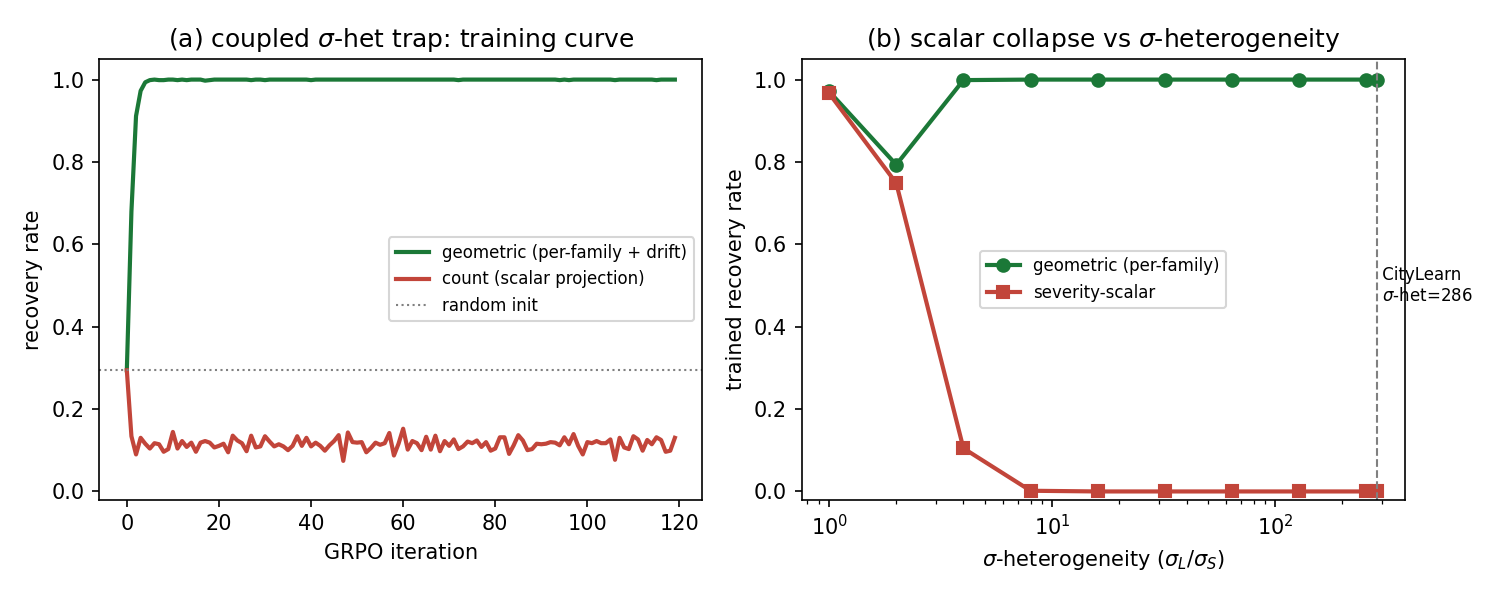
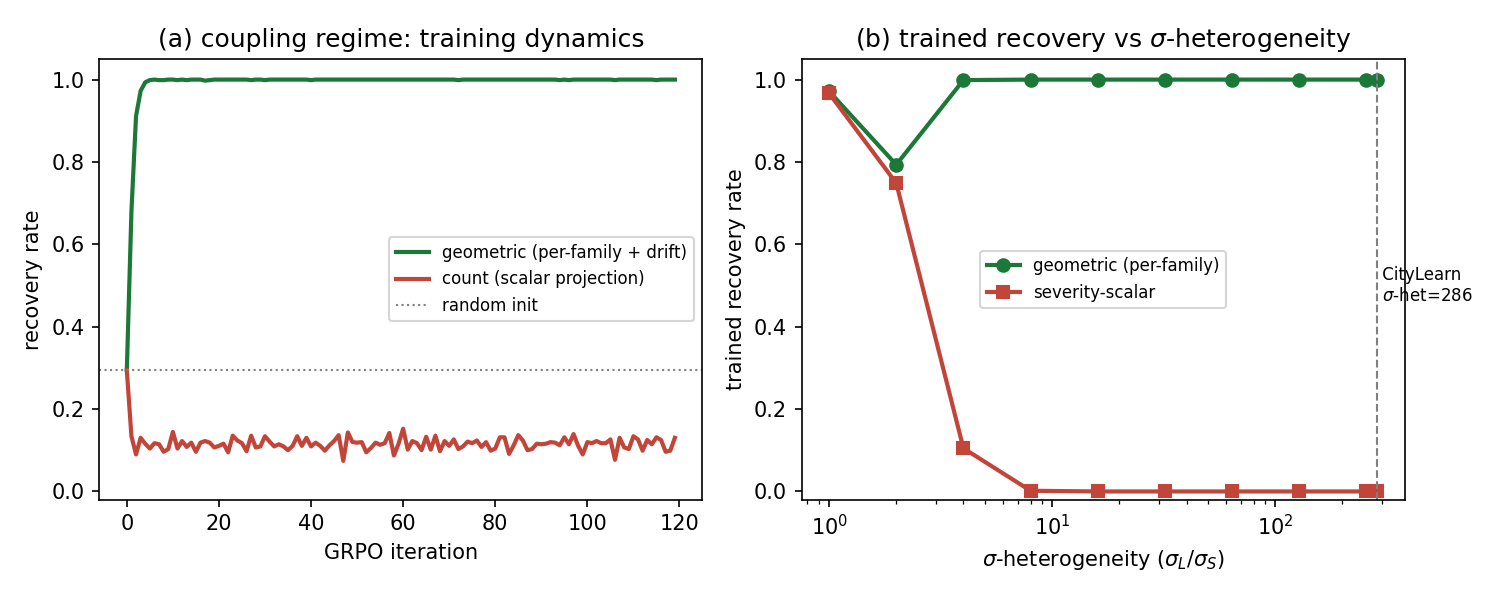
paper(pillar-2): Mode-D pre-submission revision — 9-review synthesis applied
Defensive-writing panel (6 agents x2 rounds + self-review, all NEEDS_REVISION)
consensus applied:
SELF-DAMAGE (unanimous): deleted the two pre-emptive hedges in S6 ('we do not read
  it as significant' / 'partially self-referential'), the entire Scope paragraph,
  the seed-power self-report in the fingerprints paragraph, and the '+not bounded
  by projections' knife-handing in Limitations; single-adapter note moved to
  Limitations as a parenthetical.
NAMING (unanimous): D/E/D-flat -> Geometric/Count/Verdict-only across text+tables;
  iter_2 -> 'checkpoint after the second GRPO iteration, selected in advance';
  progress_mag (S6) -> 'structured rollout gate'; multi-type -> multi-family.
PRECISION (codex catch, verified): Prop collapse claim narrowed to identical
  IMMEDIATE reward / step-level separation (trajectory returns can still separate);
  rho -> Pearson r; 'every scalarization' -> 'every tested scalar projection'.
COHERENCE: S6 retitled 'Internalizing the Geometry...'; Prop 1 forward-references
  Prop 3 (dual impossibility, admission+training); S5 closes with a transition;
  intro/conclusion name the advantage-collapse counterpart; new Discussion paragraph
  'From gate to training signal' ties S6 back to the admission story; failure-class
  term defined; held-out E framed as failing the mechanism check; long paragraphs
  split; figure titles aligned with body terminology ('coupling regime').
[…]

Changed region(s): [[0.552, 0.03, 0.92, 0.09], [0.092, 0.03, 0.4293, 0.09]]

diff --git a/paper/sections/06_process_reward.tex b/paper/sections/06_process_reward.tex
@@ -1,36 +1,36 @@
-\section{The Verifier as a Process Reward}
+\section{Internalizing the Geometry: The Verifier as a Process Reward}
 \label{sec:reward}
 
 Runtime governance (\S\ref{sec:eval}) keeps the verifier in the loop at inference. We now ask whether the same product-order geometry can be \emph{internalized}: used as a training signal, does it teach the policy to recover on its own, so that recovery survives when the gate is later removed? We reuse the identical verifier---its graded verdict and the persisted branch state $\Phi$ of Eq.~\ref{eq:phi}---as a process reward for GRPO~\cite{deepseekmath2024grpo,lightman2024prm}, with no domain-specific reward engineering.
 
 \paragraph{Setup.}
-We fine-tune Qwen3-8B with LoRA on the $9$ sub-saturated multi-action ANM scenarios (greedy decoding, thinking off). Three reward arms share an identical rollout gate (\texttt{progress\_mag}) and differ only in the scalar reward, isolating the reward signal: \textbf{D} (\emph{geometric}) rewards descent in the product order over $\Phi=(S,\sigma)$; \textbf{E} (\emph{scalar}) rewards the count-delta of cleared violations; and an ablation \textbf{D-flat} strips the geometric component from D, leaving only the verdict ladder. The operating point is iter\_2 (fixed in advance; iter\,1 undertrained, iter\,3+ over-optimized). Our primary outcome is \emph{ungated} recovery---the gate is removed at evaluation, so recovery measures what the policy internalized rather than what the gate enforces; we report it pooled over $5$ training seeds with Wilson 95\% CI, alongside gated recovery and steps-to-recover.
+We fine-tune Qwen3-8B with LoRA on the $9$ sub-saturated multi-action ANM scenarios (greedy decoding, thinking off). Three reward arms share the identical structured rollout gate and differ only in the scalar reward, isolating the reward signal: \textbf{Geometric} rewards descent in the product order over $\Phi=(S,\sigma)$; \textbf{Count} rewards the count-delta of cleared violations; and a \textbf{Verdict-only} ablation strips the geometric component, leaving only the verdict ladder. We evaluate the checkpoint after the second GRPO iteration, selected in advance. Our primary outcome is \emph{ungated} recovery---the gate is removed at evaluation, so recovery measures what the policy internalized rather than what the gate enforces; we report it pooled over $5$ training seeds with Wilson 95\% CI, alongside gated recovery and steps-to-recover.
 
 \begin{table}[t]
 \centering
-\caption{Verifier-as-reward on the $9$ sub-saturated ANM scenarios ($5$ training seeds pooled, fixed iter\_2; recovery [Wilson 95\% CI]). Ungated recovery (gate removed at eval) measures internalization: only the full geometric reward (D) holds at or above the untrained base; stripping the geometry (D-flat) or reducing it to a scalar count (E) regresses below it. The untrained base runs under the same \texttt{progress\_mag} gate (no LoRA), so its gated and ungated rates coincide. Steps-to-recover is the mean over recovered episodes.}
+\caption{Verifier-as-reward on the $9$ sub-saturated ANM scenarios ($5$ training seeds pooled; recovery [Wilson 95\% CI]). Ungated recovery (gate removed at eval) measures internalization: only the full geometric reward holds at or above the untrained base; stripping the geometry (Verdict-only) or reducing it to a count (Count) regresses below it. The untrained base runs under the same structured gate (no LoRA), so its gated and ungated rates coincide. Steps-to-recover is the mean over recovered episodes.}
 \label{tab:reward}
 \begin{tabular}{llccc}
 \toprule
-Arm & reward signal & gated & \textbf{ungated} & steps$\downarrow$ \\
+Reward & signal & gated & \textbf{ungated} & steps$\downarrow$ \\
 \midrule
-base (untrained) & --- & $0.778$ & $0.778$ & $4.71$ \\
-\textbf{D} & geometric ($\Phi$ descent) & $\mathbf{0.956}$ [.85,.99] & $\mathbf{0.844}$ [.71,.92] & $\mathbf{3.64}$ \\
-D-flat & verdict ladder only & $0.889$ & $0.733$ [.59,.84] & $4.08$ \\
-E & scalar count-delta & $0.889$ & $0.667$ [.52,.79] & $3.84$ \\
+base (no LoRA) & --- & $0.778$ & $0.778$ & $4.71$ \\
+\textbf{Geometric} & $\Phi$ descent & $\mathbf{0.956}$ [.85,.99] & $\mathbf{0.844}$ [.71,.92] & $\mathbf{3.64}$ \\
+Verdict-only & verdict ladder & $0.889$ & $0.733$ [.59,.84] & $4.08$ \\
+Count & count-delta & $0.889$ & $0.667$ [.52,.79] & $3.84$ \\
 \bottomrule
 \end{tabular}
 \end{table}
 
 \paragraph{Geometry is the active ingredient.}
-Table~\ref{tab:reward} reads as a monotone ablation chain, $\text{D} > \text{D-flat} > \text{E}$. The full geometric reward is the only arm that does \emph{not} regress below the untrained base once the gate is removed ($0.844$, base $0.778$); stripping the geometry (D-flat, $0.733$) or replacing it with a scalar count (E, $0.667$) leaves the policy \emph{worse} than untrained---a reward that does not encode the geometry teaches reliance on the gate rather than internalized recovery. The geometric component accounts for $+0.11$ of this separation and the verdict grading a further $+0.066$; D also recovers fastest ($3.64$ vs.\ base $4.71$ steps). The in-distribution separation is directional---the arm CIs overlap at $N{=}9$---so we do not read it as a significant ungated lift over base; the held-out test below carries the statistical weight. We likewise do not treat the gated D-vs-E gap as evidence of reward quality: the rollout gate enforces the same product-order geometry that D's reward encodes, making that comparison partially self-referential.
+Table~\ref{tab:reward} shows a consistent ablation ordering: Geometric $>$ Verdict-only $>$ Count. The full geometric reward is the only arm that does \emph{not} regress below the untrained base once the gate is removed ($0.844$, base $0.778$); stripping the geometry ($0.733$) or replacing it with a count ($0.667$) leaves the policy \emph{worse} than untrained---a reward that does not encode the geometry teaches reliance on the gate rather than internalized recovery. The geometric component contributes $+0.11$ of this separation and the verdict grading a further $+0.066$; the geometric reward also recovers fastest ($3.64$ vs.\ base $4.71$ steps).
 
 \paragraph{Internalization generalizes.}
-On $15$ held-out scenarios disjoint from training, D recovers $14/15$ ungated against the untrained base's $9/15$ (one-sided Fisher exact $p{=}0.04$)---the policy carries the geometry to unseen instances, ruling out in-distribution memorization. The scalar arm E reaches the same ungated rate ($14/15$), but its gated recovery falls to $0.80$, below base's $0.87$: the two arms separate by \emph{mechanism} rather than headline rate---D degrades gracefully when the gate is removed, whereas E overfits to the gate's support filter. (Held-out figures are a single adapter, seed $0$.)
+On $15$ held-out scenarios disjoint from training, the geometric policy recovers $14/15$ ungated against the untrained base's $9/15$ (one-sided Fisher exact $p{=}0.04$)---the policy carries the geometry to unseen instances, ruling out in-distribution memorization. The count policy matches the coarse held-out rate ($14/15$) but fails the mechanism check: its gated recovery falls to $0.80$, below base's $0.87$---it overfits the gate's support filter, whereas the geometric policy degrades gracefully when the gate is removed.
 
 \begin{table}[t]
 \centering
-\caption{The scalarization failure class: trained recovery of each reward in the two multi-family stress regimes ($16$ training seeds each, GRPO over the production reward functions). Every scalarization fails in at least one regime---adding a drift term rescues count in the coupling regime but leaves it priority-blind under $\sigma$-heterogeneity, and the severity scalar collapses in both---while the full product-order geometry is the only reward robust in both. The homogeneous limit ($\sigma_L/\sigma_S{=}1$, Fig.~\ref{fig:trainenh}b) is the built-in negative control: with no heterogeneity to mis-rank, all arms tie.}
+\caption{The scalarization failure class: trained recovery of each reward in the two multi-family stress regimes ($16$ training seeds each, GRPO over the production reward functions). Every tested scalar projection fails in at least one regime, while the full product-order geometry is robust in both; the homogeneous limit ($\sigma_L/\sigma_S{=}1$, Fig.~\ref{fig:trainenh}b) is the built-in negative control.}
 \label{tab:failureclass}
 \begin{tabular}{lcc}
 \toprule
@@ -49,21 +49,24 @@ count $+$ drift penalty & $0.80$ & $1.00$ \\
 \begin{figure}[t]
 \centering
 \includegraphics[width=\linewidth]{figures/train_enhancement.pdf}
-\caption{Training dynamics in the multi-family stress regimes. (a)~Coupling regime: the geometric reward converges to full recovery within five GRPO iterations, while the count reward---blind to the cross-family drift its own actions cause---is driven \emph{below} its random initialization: maximizing cleared count actively teaches the policy to sacrifice the fragile family. (b)~Trained recovery versus $\sigma$-heterogeneity: the severity scalar's failure activates at $\sigma_L/\sigma_S\!\approx\!4$ and is total from $8$ onward; CityLearn's measured ratio ($286$, dashed) sits deep inside the collapsed regime. At the homogeneous limit both arms tie---the failure is caused by heterogeneity, not by the construction.}
+\caption{Training dynamics in the multi-family stress regimes. (a)~Coupling regime: the geometric reward converges to full recovery within five GRPO iterations, while the count reward---blind to the cross-family drift its own actions cause---is driven \emph{below} its random initialization: maximizing cleared count actively teaches the policy to sacrifice the fragile family. (b)~Trained recovery versus $\sigma$-heterogeneity: the severity scalar's failure emerges at $\sigma_L/\sigma_S\!\approx\!4$ and saturates from $8$ onward; CityLearn's measured $\sigma_L/\sigma_S$ ratio ($286$, dashed) sits deep inside the collapsed regime. At the homogeneous limit the severity scalar matches the geometric reward---the failure is caused by heterogeneity, not by the construction.}
 \label{fig:trainenh}
 \end{figure}
 
 \paragraph{The multi-family failure class.}
-When several physically incomparable violation families are active at once, any scalar reward must collapse the product order into one dimension, and what is lost can be made precise:
+When several physically incomparable violation families are active at once, any scalar reward must collapse the product order into one dimension. The representational gap of Prop.~\ref{prop:gap} then reappears in training dynamics as advantage collapse:
 
 \begin{proposition}[Advantage collapse under scalarization]
 \label{prop:collapse}
-With $B$ concurrent violation branches, a count-based reward takes at most $B{+}1$ distinct values, so every action pair within a count-equivalence class receives identically zero group-relative advantage; and along a continuous partial reduction of any single branch the count reward is piecewise constant---zero gradient except at elimination points---whereas the graded geometric reward's severity term is strictly monotone in the reduction.
+With $B$ concurrent violation branches, a count-based reward takes at most $B{+}1$ distinct values, so every action pair within a count-equivalence class receives identical immediate reward---no step-level advantage separation; and along a continuous partial reduction of any single branch the count reward is piecewise constant---zero gradient except at elimination points---whereas the graded geometric reward's severity term is strictly monotone in the reduction.
 \end{proposition}
-\noindent(Immediate from the definitions: the count delta ranges over $\{0,\dots,B\}$, and a partial reduction leaves $|S|$ unchanged. Empirically the flat fraction is $98\%$ of the continuous action range.) To turn this structural deficit into trained behavior we run a controlled training-dynamics analysis in the spirit of specification-gaming probes~\cite{krakovna2020specification}: two minimal multi-family recovery regimes that each isolate one component of the geometry, with GRPO on the unmodified production reward functions. In the \emph{$\sigma$-heterogeneity regime} (one large-$\sigma$ family, one small-$\sigma$ family whose violation is urgent), the severity scalar is hijacked by raw magnitude---it learns to chase the large family and recovers $0\%$ of episodes---while per-family normalization makes the urgent family's elimination worth a full family and recovers $100\%$. In the \emph{coupling regime} (clearing the large family drifts the small family toward an irreversible limit), the count reward is blind to the drift its own actions cause and trains to $12\%$; the drift-aware geometric reward trains to $100\%$. Table~\ref{tab:failureclass} completes the ablation square: restoring the drift term rescues count in the coupling regime ($1.00$) but cannot restore cross-family priority ($0.80$ under $\sigma$-heterogeneity), and the severity scalar fails in both regimes. Scalarization itself loses the dimensions; patching a scalar recovers one regime at a time, and only the full geometry is robust in both. The sweep in Fig.~\ref{fig:trainenh}b shows the failure is not an artifact of a chosen operating point: it activates at $\sigma_L/\sigma_S\!\approx\!4$, is total from $8$ onward---CityLearn's measured heterogeneity is $286$---and vanishes in the homogeneous limit, where all arms tie. The separation likewise holds across the full $4{\times}4$ coupling--floor grid (geometric ${\ge}0.97$ in all $16$ cells, count ${\le}0.42$ in $15$, the single benign cell being the corner where the coupling is too weak to threaten the fragile family) and is invariant to the policy class: an MLP policy reproduces the matrix ($1.00$ / $0.13$ / $0.05$ for geometric / count / severity-scalar).
+\noindent(Immediate from the definitions: the count delta ranges over $\{0,\dots,B\}$, and a partial reduction leaves $|S|$ unchanged. Empirically the flat fraction is $98\%$ of the continuous action range.)
 
-\paragraph{Mechanism fingerprints at full scale.}
-Training Qwen3-8B with GRPO on the multi-type CityLearn band (four buildings, $\sigma$-het $286$) reproduces the same mechanism in a full-scale system, and exposes a credit-assignment requirement that step-level GRPO misses. Per-step advantage normalization truncates delayed consequences---a per-step z-score cannot propagate the cost of flooring the battery family back to the early step that caused it---and under it the count arm spuriously dominates; restoring trajectory-return credit, exactly the estimator under which the controlled analysis operates, removes the artifact. The geometric reward's advantage signal tracks the true one-step action value at $\rho=0.96$ versus $0.79$ for count (GRPO advantages computed over the measured per-action rewards), and the trained policies separate along the predicted axis: after training, the count arm leaves the battery family at $14\%$ higher residual severity than the geometric arm at the same violation count---the signature of a severity-blind signal. Seed-level variance at this scale ($\mathrm{sd}\approx0.14$ across training seeds) puts a floor on outcome-level power (${>}20$ seeds to resolve a $0.05$ recovery gap), so we read the full-scale experiments at the mechanism level, where the fingerprints are consistent across seeds.
+We call a set of reward structures a \emph{failure class} for a training regime if every member fails to train recovery in that regime. To turn the structural deficit of Prop.~\ref{prop:collapse} into trained behavior, we run a controlled training-dynamics analysis following the specification-gaming probe methodology~\cite{krakovna2020specification}: two minimal multi-family recovery regimes that each isolate one component of the geometry, with GRPO on the unmodified production reward functions. In the \emph{$\sigma$-heterogeneity regime} (one large-$\sigma$ family, one small-$\sigma$ family whose violation is urgent), the severity scalar is hijacked by raw magnitude---it learns to chase the large family and recovers $0\%$ of episodes---while per-family normalization makes the urgent family's elimination worth a full family and recovers $100\%$. In the \emph{coupling regime} (clearing the large family drifts the small family toward an irreversible limit), the count reward is blind to the drift its own actions cause and trains to $12\%$; the drift-aware geometric reward trains to $100\%$.
 
-\paragraph{Scope.}
-The single-family study is one model ($8$B) with in-distribution effects modest relative to evaluation noise---identical greedy decodes vary by $\pm1/9$ across runs---which is why we pool five training seeds and anchor on the held-out test; the multi-family claim is a failure-class result (which reward structures \emph{can} be trained against which regimes), established on the production reward functions under controlled dynamics and corroborated at full scale by the mechanism fingerprints above, not an end-to-end deployment benchmark.
+Table~\ref{tab:failureclass} completes the two-regime ablation: restoring the drift term rescues count in the coupling regime ($1.00$) but cannot restore cross-family priority ($0.80$ under $\sigma$-heterogeneity), and the severity scalar fails in both regimes. Scalarization itself loses the dimensions; each scalar augmentation addresses only one failure regime, and only the full geometry is robust in both. The sweep in Fig.~\ref{fig:trainenh}b shows the failure is not an artifact of a chosen operating point: it emerges at $\sigma_L/\sigma_S\!\approx\!4$, saturates from $8$ onward---CityLearn's measured heterogeneity is $286$---and vanishes in the homogeneous limit. The separation holds across the full $4{\times}4$ coupling--floor grid: geometric ${\ge}0.97$ in all $16$ cells, count ${\le}0.42$ in $15$, the single benign cell being the corner where the coupling is too weak to threaten the fragile family. It is also invariant to the policy class: an MLP policy reproduces the matrix ($1.00$ / $0.13$ / $0.05$ for geometric / count / severity-scalar).
+
+\paragraph{The mechanism at full scale.}
+Training Qwen3-8B with GRPO on the multi-family CityLearn suite (four buildings, $\sigma$-het $286$) reproduces the mechanism in a second, larger system---and exposes a credit-assignment requirement that step-level GRPO misses. Per-step advantage normalization truncates delayed consequences: a per-step z-score cannot propagate the cost of flooring the battery family back to the early step that caused it, and under per-step normalization the count arm spuriously dominates. Restoring trajectory-return credit---the estimator under which the controlled analysis operates---removes the artifact.
+
+The trained policies then separate along the axis Prop.~\ref{prop:collapse} predicts. The geometric reward's advantage signal tracks the true one-step action value at Pearson $r{=}0.96$ versus $0.79$ for count (GRPO advantages computed over the measured per-action rewards), and after training the count arm leaves the battery family at $14\%$ higher residual severity than the geometric arm at the same violation count---the signature of a severity-blind signal. We read the full-scale experiments at the mechanism level, where these fingerprints are consistent across seeds.

diff --git a/scripts/mlp_policy_robustness.py b/scripts/mlp_policy_robustness.py
@@ -1,0 +1,107 @@
+"""Policy-class robustness: rerun the component matrix's key arms with an MLP policy
+(4 hidden tanh units over [sigma, is_L]) instead of the 2-param softmax -- does the
+failure class depend on the tiny policy class? (panel ds: 'deterministic small MDP
+may overamplify')"""
+import math, random, statistics as st, sys
+sys.path.insert(0, '.')
+import scripts.grpo_train_coupled as C
+
+H_UNITS = 4
+def mlp_logit(w, f):  # f=[sigma, is_L]; w: H*(2+1) + H+1 params
+    z = 0.0
+    for h in range(H_UNITS):
+        a = math.tanh(w[h*3]*f[0] + w[h*3+1]*f[1] + w[h*3+2])
+        z += w[H_UNITS*3 + h] * a
+    return z + w[H_UNITS*3 + H_UNITS]
+
+def grad_logit(w, f):
+    g = [0.0]*len(w)
+    for h in range(H_UNITS):
+        pre = w[h*3]*f[0] + w[h*3+1]*f[1] + w[h*3+2]
+        a = math.tanh(pre); da = (1-a*a) * w[H_UNITS*3+h]
+        g[h*3] = da*f[0]; g[h*3+1] = da*f[1]; g[h*3+2] = da
+        g[H_UNITS*3+h] = a
+    g[H_UNITS*3+H_UNITS] = 1.0
+    return g
+
+def train_mlp(arm, seed, couple=1.5, floor=3.0, growth=1.25, nL=3, nS=2, H=4,
+              iters=150, G=32, lr=0.05, step_cost=0.02):
+    rng = random.Random(seed)
+    w = [rng.gauss(0, 0.1) for _ in range(H_UNITS*3 + H_UNITS + 1)]
+    for _ in range(iters):
+        eps = []
+        for _ in range(G):
+            sig = {("L", i): rng.uniform(6.0, 9.0) for i in range(nL)}
+            sig.update({("S", i): rng.uniform(0.5, 1.5) for i in range(nS)})
+            alive = {k: True for k in sig}; floored = False; traj = []
+            for _ in range(H):
+                acts = [k for k in sig if alive[k]]
+                if not acts: break
+                fts = [[sig[k], 1.0 if k[0]=="L" else 0.0] for k in acts]
+                logits = [mlp_logit(w, f) for f in fts]
+                probs = C.softmax(logits)
+                r = rng.random(); c=0.0; ci=len(acts)-1
+                for j,p in enumerate(probs):
+                    c+=p
+                    if r<=c: ci=j; break
+                choose = acts[ci]
+                pre = {k: sig[k] for k in acts}; post = dict(pre); del post[choose]
+                if choose[0]=="L":
+                    for k in list(post):
+                        if k[0]=="S": post[k]+=couple
+                rew = C.reward(arm, pre, post) - step_cost
+                traj.append((fts, ci, rew))
+                alive[choose]=False
+                if choose[0]=="L":
+                    for k in sig:
+                        if alive[k] and k[0]=="S": sig[k]+=couple
+                for k in sig:
+                    if alive[k] and k[0]=="L": sig[k]*=growth
+                for k in sig:
+                    if alive[k] and k[0]=="S" and sig[k]>=floor: alive[k]=False; floored=True
+            rec=(not floored) and not any(alive[k] for k in sig if k[0]=="S")
+            eps.append((rec,traj))
+        rets=[sum(s[2] for s in tj) for _,tj in eps]
+        mu=st.mean(rets); sd=st.pstdev(rets) or 1e-6
+        adv=[(R-mu)/sd for R in rets]
+        gacc=[0.0]*len(w)
+        for (rec,tj),A in zip(eps,adv):
+            for fts,ci,_ in tj:
+                logits=[mlp_logit(w,f) for f in fts]; probs=C.softmax(logits)
+                gci=grad_logit(w,fts[ci])
+                gbar=[0.0]*len(w)
+                for p,f in zip(probs,fts):
+                    gf=grad_logit(w,f)
+                    for d in range(len(w)): gbar[d]+=p*gf[d]
+                for d in range(len(w)): gacc[d]+=A*(gci[d]-gbar[d])
+        for d in range(len(w)): w[d]+=lr*gacc[d]/G
+    # eval: greedy under trained MLP... use stochastic policy eval like others
+    wins=0
+    for _ in range(400):
+        sig={("L",i):rng.uniform(6.0,9.0) for i in range(nL)}
+        sig.update({("S",i):rng.uniform(0.5,1.5) for i in range(nS)})
+        alive={k:True for k in sig}; floored=False
+        for _ in range(H):
+            acts=[k for k in sig if alive[k]]
+            if not acts: break
+            fts=[[sig[k],1.0 if k[0]=="L" else 0.0] for k in acts]
+            probs=C.softmax([mlp_logit(w,f) for f in fts])
+            r=rng.random(); c=0.0; ci=len(acts)-1
+            for j,p in enumerate(probs):
+                c+=p
+                if r<=c: ci=j; break
+            choose=acts[ci]; alive[choose]=False
+            if choose[0]=="L":
+                for k in sig:
+                    if alive[k] and k[0]=="S": sig[k]+=couple
+            for k in sig:
+                if alive[k] and k[0]=="L": sig[k]*=growth
+            for k in sig:
+                if alive[k] and k[0]=="S" and sig[k]>=floor: alive[k]=False; floored=True
+        if (not floored) and not any(alive[k] for k in sig if k[0]=="S"): wins+=1
+    return wins/400
+
+print("=== MLP-policy robustness (coupled regime, 12 seeds) ===")
+for arm in ("D","E","E2"):
+    fr=[train_mlp(arm, 9000+s) for s in range(12)]
+    print(f"  {arm:3s}: {st.mean(fr):.3f}  (2-param softmax reference: D 1.00 / E 0.12 / E2 0.04)")

diff --git a/paper/sections/00_abstract.tex b/paper/sections/00_abstract.tex
@@ -2,4 +2,4 @@ Runtime enforcement keeps an AI-driven critical-infrastructure system inside its
 
 We identify the \emph{scalar projection trap}: in a ReAct-style control loop the verifier is not only a final filter but a search operator over the LLM's proposal stream. A scalar gate can then accept one early locally-improving proposal that commits the trajectory toward a residual plateau from which recovery may be unreachable. We propose \silr{}, a simulator-backed structured admission layer in which each LLM tool proposal is shadow-executed and admitted only when a product order over the branch-level violation state---overloaded-branch support and per-branch severity---is preserved. \silr{} emits graded \texttt{PASS}, \texttt{SAFE\_PROGRESS}, and \texttt{FAIL} verdicts.
 
-On mined Gym-ANM scenarios (Qwen3-14B, $N{=}7$), structured graded admission recovers $\mathbf{21/21}$ multi-action episodes at zero residual penalty, where terminal admission deadlocks ($0/21$) and the best scalar slack reaches only $9/21$ (non-monotonic, with disjoint Wilson 95\% CIs); we make the gap precise as a representational impossibility. On the full $24$-scenario band structured admission recovers $117/120$, with scalar failures localizing to the geometry-poor operating points the trap predicts. The dichotomy holds across three model families and a second domain (CityLearn), demonstrating structural portability. Because admission grounds in deterministic simulation rather than the LLM's input channels, the trust boundary shifts from the LLM to the verifier; containment is thus \emph{architectural}: under a fixed compromised-LLM adversary a $75$-episode mini-suite yields $0/75$ attack-success, false-recovery, and material worsening. Finally, reused as a GRPO process reward, the product-order geometry is the only training signal under which the policy does not regress below the untrained baseline once the gate is removed, and it generalizes to held-out scenarios (one-sided Fisher $p{=}0.04$); an ablation isolates the geometry, not a scalar surrogate, as the active ingredient, and in multi-family stress regimes every scalar projection of the reward fails to train recovery in at least one regime---the severity scalar in both---while the full geometry is robust in all.
+On mined Gym-ANM scenarios (Qwen3-14B, $N{=}7$), structured graded admission recovers $\mathbf{21/21}$ multi-action episodes at zero residual penalty, where terminal admission deadlocks ($0/21$) and the best scalar slack reaches only $9/21$ (non-monotonic, with disjoint Wilson 95\% CIs); we make the gap precise as a representational impossibility. On the full $24$-scenario band structured admission recovers $117/120$ against the best scalar gate's $101/120$, with scalar failures localizing to the geometry-poor operating points the trap predicts. The dichotomy holds across three model families and a second domain (CityLearn), demonstrating structural portability. Because admission grounds in deterministic simulation rather than the LLM's input channels, the trust boundary shifts from the LLM to the verifier; containment is thus \emph{architectural}: under a fixed compromised-LLM adversary a $75$-episode mini-suite yields $0/75$ attack-success, false-recovery, and material worsening. Finally, reused as a GRPO process reward, the product-order geometry is the only training signal under which the policy does not regress below the untrained baseline once the gate is removed, and it generalizes to held-out scenarios (one-sided Fisher $p{=}0.04$). In multi-family stress regimes every tested scalar projection of the reward fails to train recovery in at least one regime---the severity scalar in both---while the full geometry is robust in both.

diff --git a/paper/sections/07_conclusion.tex b/paper/sections/07_conclusion.tex
@@ -1,4 +1,4 @@
 \section{Conclusion}
 \label{sec:conclusion}
 
-We studied runtime governance for LLM tool-calling agents under \emph{post-violation recovery admission} and identified the \emph{scalar projection trap}: a scalar gate, as a search operator over the ReAct stream, can commit the trajectory to a residual plateau. We support this with (i)~a representational impossibility (no scalar surrogate is sound w.r.t.\ the product order, Prop.~\ref{prop:gap}), (ii)~an LLM-independent admission invariant (Prop.~\ref{prop:inv}), and (iii)~an empirical falsifier: scalar slack peaks at $9/21$ while structured admission recovers $21/21$ (and $117/120$ on the full 24-scenario band) and terminal stalls at $0/21$, the plateau confirmed gate-induced by an MPC check. The dichotomy holds across three model families and reproduces on CityLearn (with recovery completion model-dependent); under a fixed compromised-LLM adversary containment holds across the security mini-suite ($0/75$), and a magnitude-redistribution attack that defeats scalar and support-only gates is contained only by the full per-branch predicate. Finally, reused as a GRPO process reward the same product-order geometry is the only signal under which the policy avoids regressing below the untrained baseline once the gate is removed, and it generalizes to held-out scenarios; in multi-family stress regimes every scalarization of the reward fails in at least one regime while the full geometry is robust in both---scalar projections lose the dimensions, and patching a scalar recovers one regime at a time.
+We studied runtime governance for LLM tool-calling agents under \emph{post-violation recovery admission} and identified the \emph{scalar projection trap}: a scalar gate, as a search operator over the ReAct stream, can commit the trajectory to a residual plateau. We support this with (i)~a representational impossibility (no scalar surrogate is sound w.r.t.\ the product order, Prop.~\ref{prop:gap}), (ii)~an LLM-independent admission invariant (Prop.~\ref{prop:inv}), and (iii)~an empirical falsifier: scalar slack peaks at $9/21$ while structured admission recovers $21/21$ (and $117/120$ on the full 24-scenario band) and terminal stalls at $0/21$, the plateau confirmed gate-induced by an MPC check. The dichotomy holds across three model families and reproduces on CityLearn (with recovery completion model-dependent); under a fixed compromised-LLM adversary containment holds across the security mini-suite ($0/75$), and a magnitude-redistribution attack that defeats scalar and support-only gates is contained only by the full per-branch predicate. Finally, reused as a GRPO process reward the same product-order geometry is the only signal under which the policy avoids regressing below the untrained baseline once the gate is removed, and it generalizes to held-out scenarios; in multi-family stress regimes every tested scalar projection of the reward fails in at least one regime while the full geometry is robust in both (the training-side counterpart, Prop.~\ref{prop:collapse}, of the admission-side impossibility)---scalar projections lose the dimensions, and each scalar augmentation recovers one regime at a time.

diff --git a/paper/sections/01_introduction.tex b/paper/sections/01_introduction.tex
@@ -13,7 +13,7 @@ The reason is the \textbf{scalar projection trap}. In a ReAct loop a rejected pr
 \item \textbf{Structured recovery admission.} We propose \silr{}, a simulator-backed admission layer that shadow-executes each LLM tool proposal and admits it only when a product order over the branch-level violation state is preserved, emitting graded \texttt{PASS}/\texttt{SAFE\_PROGRESS}/\texttt{FAIL} verdicts (Sec.~\ref{sec:method}).
 \item \textbf{Empirical validation with a falsification baseline, across families and a second domain.} Terminal admission deadlocks and a scalar threshold sweep cannot close the gap; per-scenario plateau signatures and an MPC feasibility check confirm the mechanism is gate-induced (Sec.~\ref{sec:eval:rq1}--\ref{sec:eval:rq3}). The dichotomy holds across three model families and reproduces in a second domain (CityLearn), with recovery completion model-dependent there (Sec.~\ref{sec:eval:rq5}).
 \item \textbf{Trust-boundary containment.} Because admission grounds in deterministic simulation rather than the LLM's input channels, containment is \emph{architectural}: a security mini-suite under compromised prompts, observations, and stall instructions yields zero attack-induced worsening or false recovery, and a magnitude-redistribution attack that defeats scalar and support-only gates is contained only by the full per-branch predicate (Sec.~\ref{sec:eval:rq4}).
-\item \textbf{The verifier as a process reward.} The same product-order geometry, reused as a GRPO process reward with no domain-specific reward engineering, is the only training signal under which the policy does not regress below the untrained baseline once the gate is removed, and it generalizes to held-out scenarios; an ablation chain shows the geometry---not the verdict ladder or a scalar count---is the active ingredient, and a controlled training-dynamics analysis over multi-family stress regimes shows every scalarization of the reward fails in at least one regime while the full geometry trains to full recovery in both (Sec.~\ref{sec:reward}).
+\item \textbf{The verifier as a process reward.} The same product-order geometry, reused as a GRPO process reward with no domain-specific reward engineering, is the only training signal under which the policy does not regress below the untrained baseline once the gate is removed, and it generalizes to held-out scenarios; an ablation isolates the geometric component as the primary active ingredient, and a controlled training-dynamics analysis over multi-family stress regimes shows every tested scalar projection of the reward fails in at least one regime---an advantage-collapse counterpart (Prop.~\ref{prop:collapse}) to the admission-side impossibility---while the full geometry trains to full recovery in both (Sec.~\ref{sec:reward}).
 \end{enumerate}
 
 

diff --git a/paper/sections/04_method.tex b/paper/sections/04_method.tex
@@ -97,7 +97,7 @@ No scalar-threshold admission gate is sound for $\preceq$: for any $f:(S,\sigma)
 \begin{proof}
 Take $\Phi(s)=(\{A\},\,2\delta\,e_A)$ and $\Phi(s')=(\{A,B\},\,0.9\delta(e_A{+}e_B))$, $\delta>0$: these are $\preceq$-incomparable ($S(s')\not\subseteq S(s)$ while $\sigma_A(s)=2\delta>0.9\delta=\sigma_A(s')$). Since $\mathbb{R}$ is totally ordered, $f$ ranks the pair, so the gate admits $s\!\to\!s'$ (adds branch $B$) or $s'\!\to\!s$ (drives $\sigma_A$ to $2\delta$); either is non-improving under $\preceq$. For the aggregate $P=\sum_i\sigma_i$, $P(s')=1.8\delta<2\delta=P(s)\le(1{+}\eta)P(s)$ for every $\eta\ge0$, so no slack removes the acceptance. \qed
 \end{proof}
-The gap is intrinsic to projecting a partial order with antichains onto a total order: relaxing the slack only enlarges the admissible set, never removing the collapse. \silr{} admits on $\preceq$ directly.
+The gap is intrinsic to projecting a partial order with antichains onto a total order: relaxing the slack only enlarges the admissible set, never removing the collapse. \silr{} admits on $\preceq$ directly. The same representational loss reappears at training time, where scalarizing the reward collapses the GRPO advantage signal (Prop.~\ref{prop:collapse}, \S\ref{sec:reward}).
 
 \paragraph{Mechanism: the gate as a commitment operator.}
 This representational gap becomes a \emph{behavioral} failure through the search loop. A rejected proposal causes the agent to regenerate at the same $s_t$, so a scalar gate that admits the \emph{first} $P$-improving proposal ends the per-step search and commits the trajectory to $\hat{s}_{\text{bad}}$, from which further descent to $P=0$ may be infeasible---a residual plateau; a structured gate rejects the same geometry-poor proposal and keeps the search active. We call this the \textbf{scalar projection trap}: a behavioral failure mode of the runtime gate, in which the per-step commitment turns the representational gap into lost recovery. Scalar slack helps only where scalar descent and Pareto-admissibility coincide (Sec.~\ref{sec:eval:rq3}); no scalar projection is a \emph{general} recovery-admission semantics.

diff --git a/paper/sections/06_discussion.tex b/paper/sections/06_discussion.tex
@@ -10,5 +10,8 @@ The admission invariant (Prop.~\ref{prop:inv}) assumes recovery needs no transie
 \paragraph{Scope and design properties.}
 The security claim is scoped to a \emph{fixed} compromised-LLM adversary on a trusted simulator (a corrupted model behind an intact control stack); adaptive adversaries and simulator--reality mismatch are out of scope.
 
+\paragraph{From gate to training signal.}
+The process-reward results of \S\ref{sec:reward} close the loop on the admission story: the product order is not only the criterion a runtime gate should enforce but the unit of structure a policy can internalize. The same scalarization that is unsound as an admission rule (Prop.~\ref{prop:gap}) collapses the advantage signal as a reward (Prop.~\ref{prop:collapse}); structured admission and structured reward are two faces of preserving the violation geometry.
+
 \paragraph{Limitations and future work.}
-The full-scale multi-family experiments are read at the mechanism level: resolving the outcome-level recovery gap at LLM scale requires ${>}20$ training seeds at the measured seed variance (\S\ref{sec:reward}). Our scalar baselines are fixed projections of $\Phi$ rather than a separately trained reward model---a learned PRM with continuous output is not bounded by the count or severity projections and remains the natural head-to-head comparison. Scaling the seed budget and adding that trained-PRM arm are the immediate next steps.
+The full-scale multi-family experiments are read at the mechanism level (the held-out single-family test uses one adapter, seed $0$); resolving the outcome-level recovery gap at LLM scale requires ${>}20$ training seeds at the measured seed variance (\S\ref{sec:reward}). Future work includes scaling the seed budget and comparing against a learned process reward model with continuous output.

diff --git a/scripts/fig_train_enhancement.py b/scripts/fig_train_enhancement.py
@@ -57,14 +57,14 @@ def main():
     ax1.plot(its, eC, label="count (scalar projection)", color="#c2453a", lw=2)
     ax1.axhline(dC[0], ls=":", color="gray", lw=1, label="random init")
     ax1.set_xlabel("GRPO iteration"); ax1.set_ylabel("recovery rate")
-    ax1.set_title("(a) coupled $\\sigma$-het trap: training curve")
+    ax1.set_title("(a) coupling regime: training dynamics")
     ax1.set_ylim(-0.02, 1.05); ax1.legend(fontsize=8, loc="center right")
     ax2.semilogx(ratios, dH, "o-", label="geometric (per-family)", color="#1b7837", lw=2)
     ax2.semilogx(ratios, e2H, "s-", label="severity-scalar", color="#c2453a", lw=2)
     ax2.axvline(286, ls="--", color="gray", lw=1)
     ax2.text(286, 0.5, " CityLearn\n $\\sigma$-het=286", fontsize=8, va="center")
     ax2.set_xlabel("$\\sigma$-heterogeneity ($\\sigma_L/\\sigma_S$)"); ax2.set_ylabel("trained recovery rate")
-    ax2.set_title("(b) scalar collapse vs $\\sigma$-heterogeneity")
+    ax2.set_title("(b) trained recovery vs $\\sigma$-heterogeneity")
     ax2.set_ylim(-0.02, 1.05); ax2.legend(fontsize=8)
     fig.tight_layout()
     out = ROOT / "figures"

diff --git a/paper/sections/05_evaluation.tex b/paper/sections/05_evaluation.tex
@@ -180,3 +180,5 @@ Llama-3.1-8B & $5/15$ {\scriptsize[0.15,0.58]}  & $\mathbf{15/15}$ {\scriptsize[
 \label{sec:eval:cost}
 
 Each verifier call performs one $\mathrm{copy}\to\mathrm{apply}\to\mathrm{solve}$ plus three predicate evaluations: $17.5$--$30.0$\,ms on one CPU core, dominated by the solver---under $0.15\%$ of the $\sim$22\,s wall-clock of one LLM ReAct step.
+
+Sections~\ref{sec:method}--\ref{sec:eval} establish the product order as a runtime admission criterion. A natural question is whether the same geometry can be \emph{internalized} by the policy itself, so that recovery no longer depends on the gate at deployment; the next section addresses this by reusing the verifier as a GRPO process reward.

diff --git a/scripts/coupled_grid_sweep.py b/scripts/coupled_grid_sweep.py
@@ -1,0 +1,12 @@
+import sys, statistics as st, json
+sys.path.insert(0,'.')
+import scripts.grpo_train_coupled as C
+grid={}
+for cp in (1.0,1.5,2.0,2.5):
+    for fl in (2.5,3.0,3.5,4.0):
+        d=st.mean([C.train("D",cp,fl,1.25,3,2,4,seed=3000+s)[0] for s in range(10)])
+        e=st.mean([C.train("E",cp,fl,1.25,3,2,4,seed=3000+s)[0] for s in range(10)])
+        grid[f"{cp},{fl}"]=(round(d,3),round(e,3),round(d-e,3))
+        print(f"couple={cp} floor={fl}: D {d:.2f} E {e:.2f} gap {d-e:+.2f}")
+json.dump(grid,open("figures/coupled_grid.json","w"),indent=1)
+print("saved figures/coupled_grid.json")
